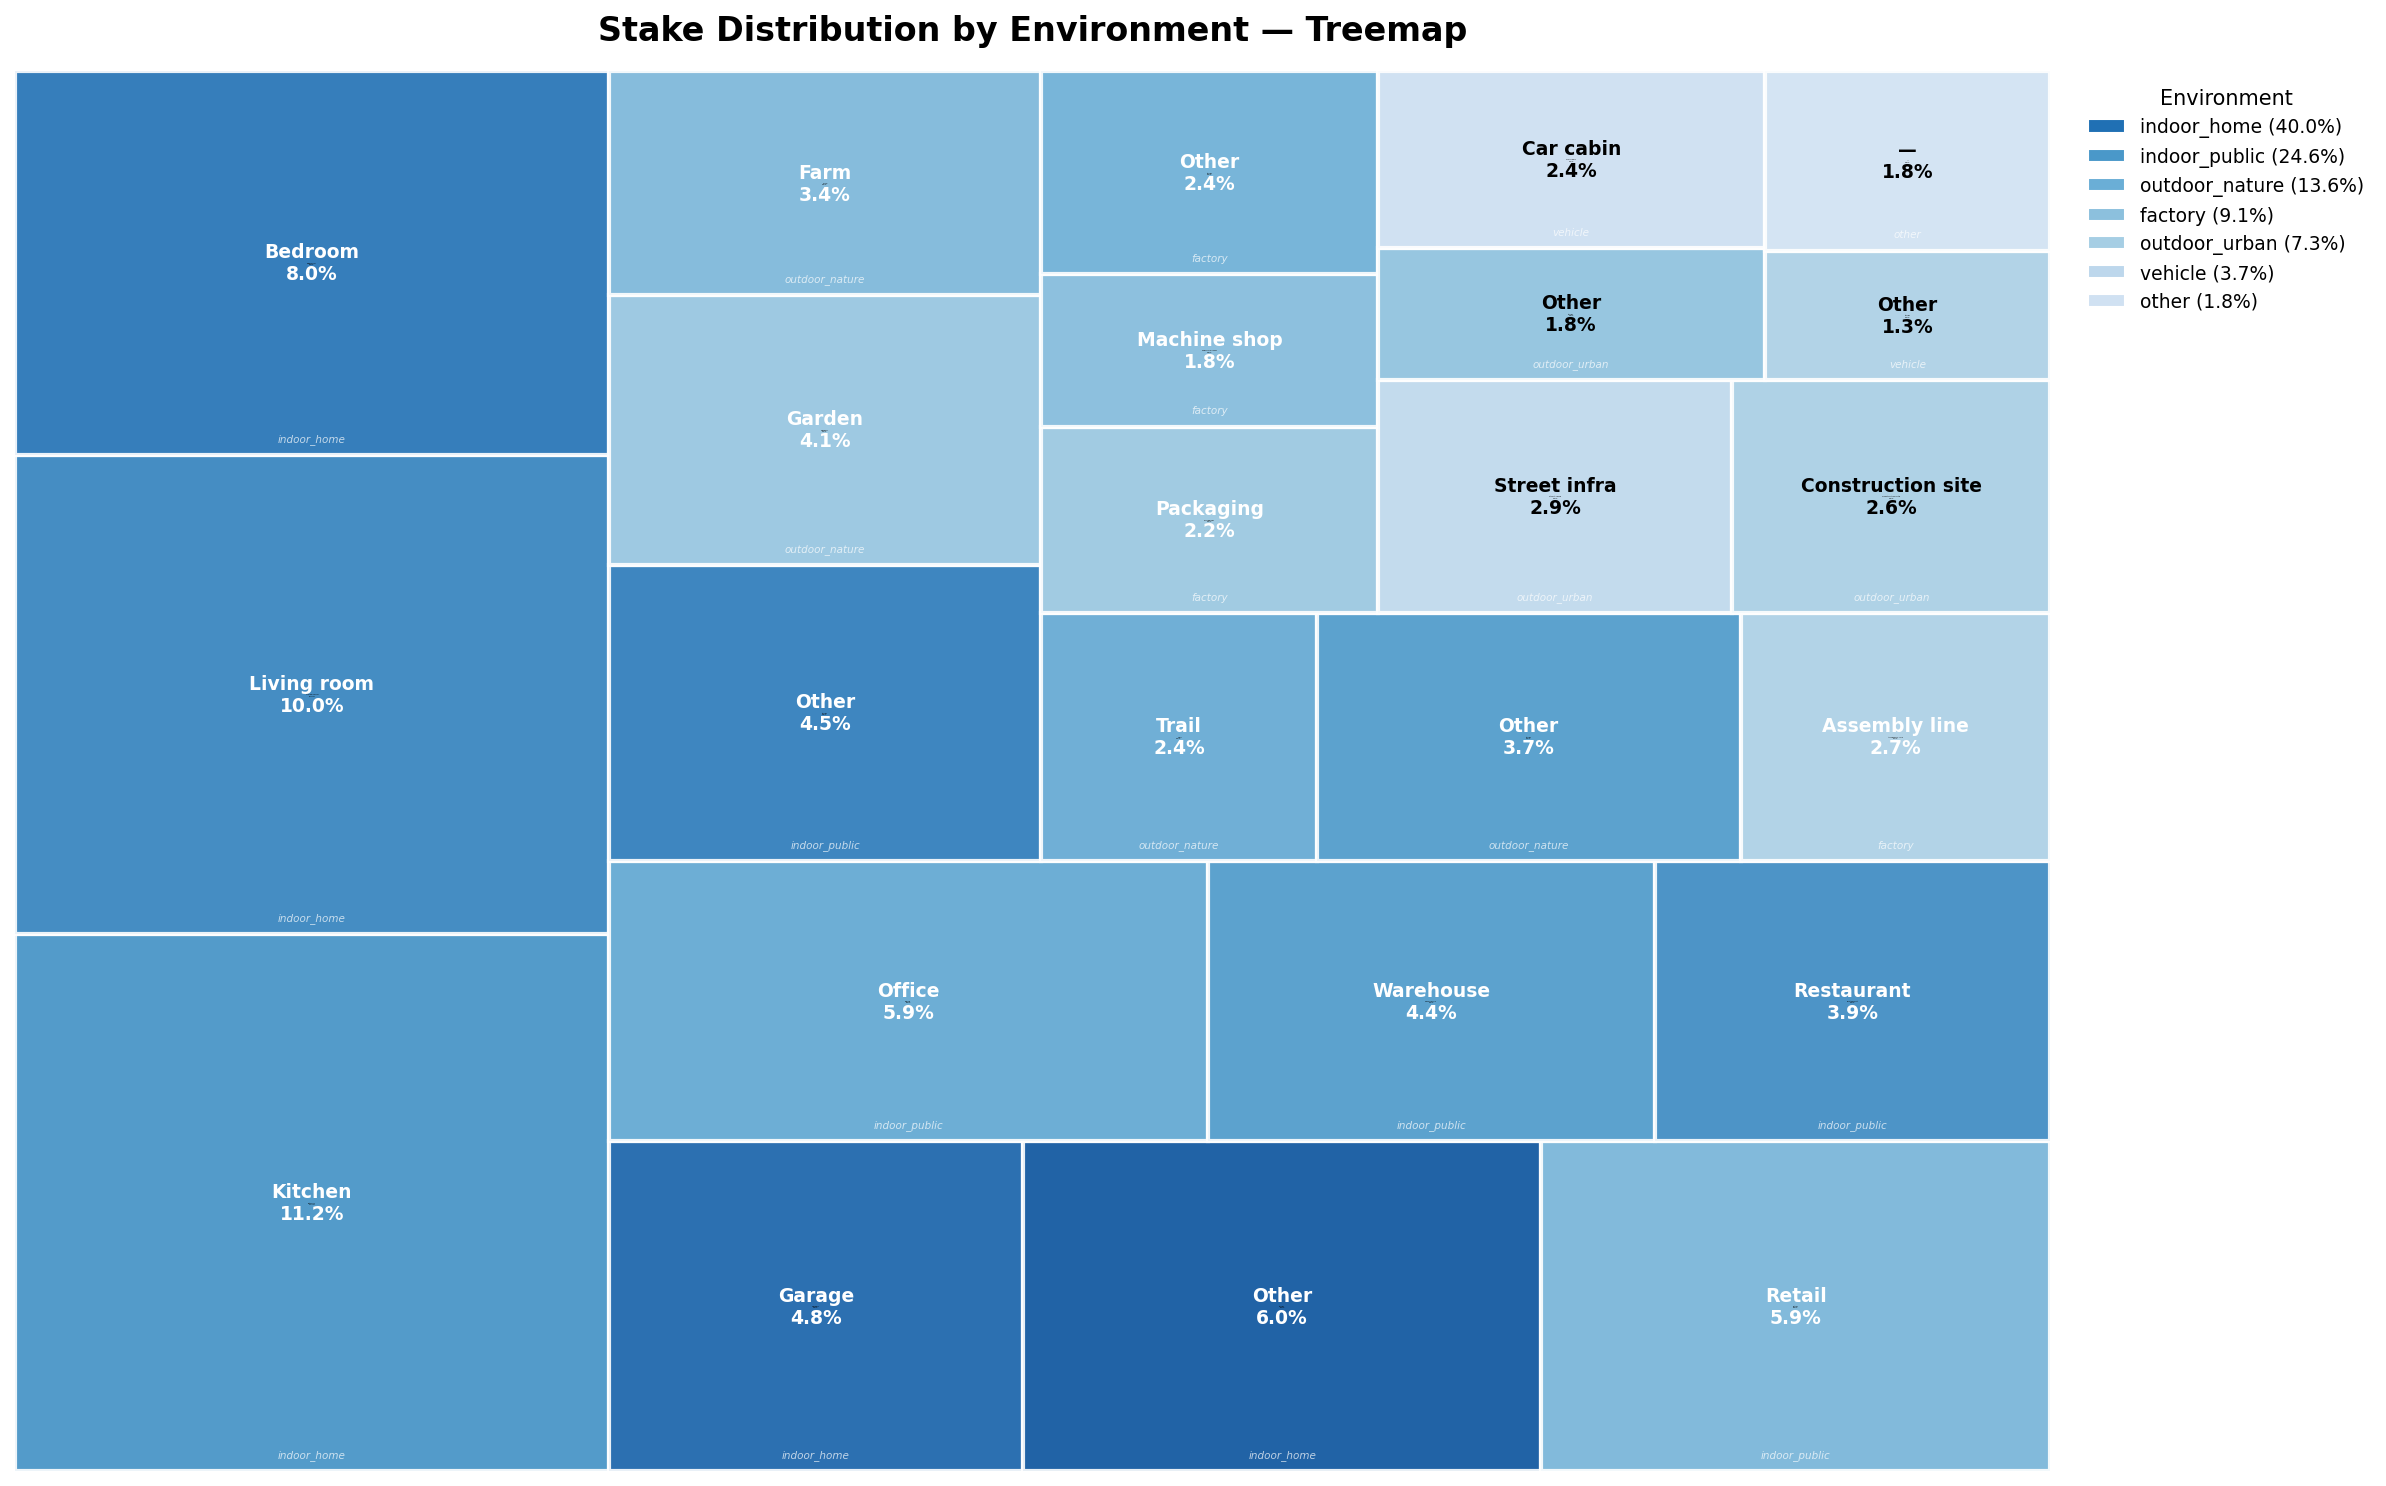
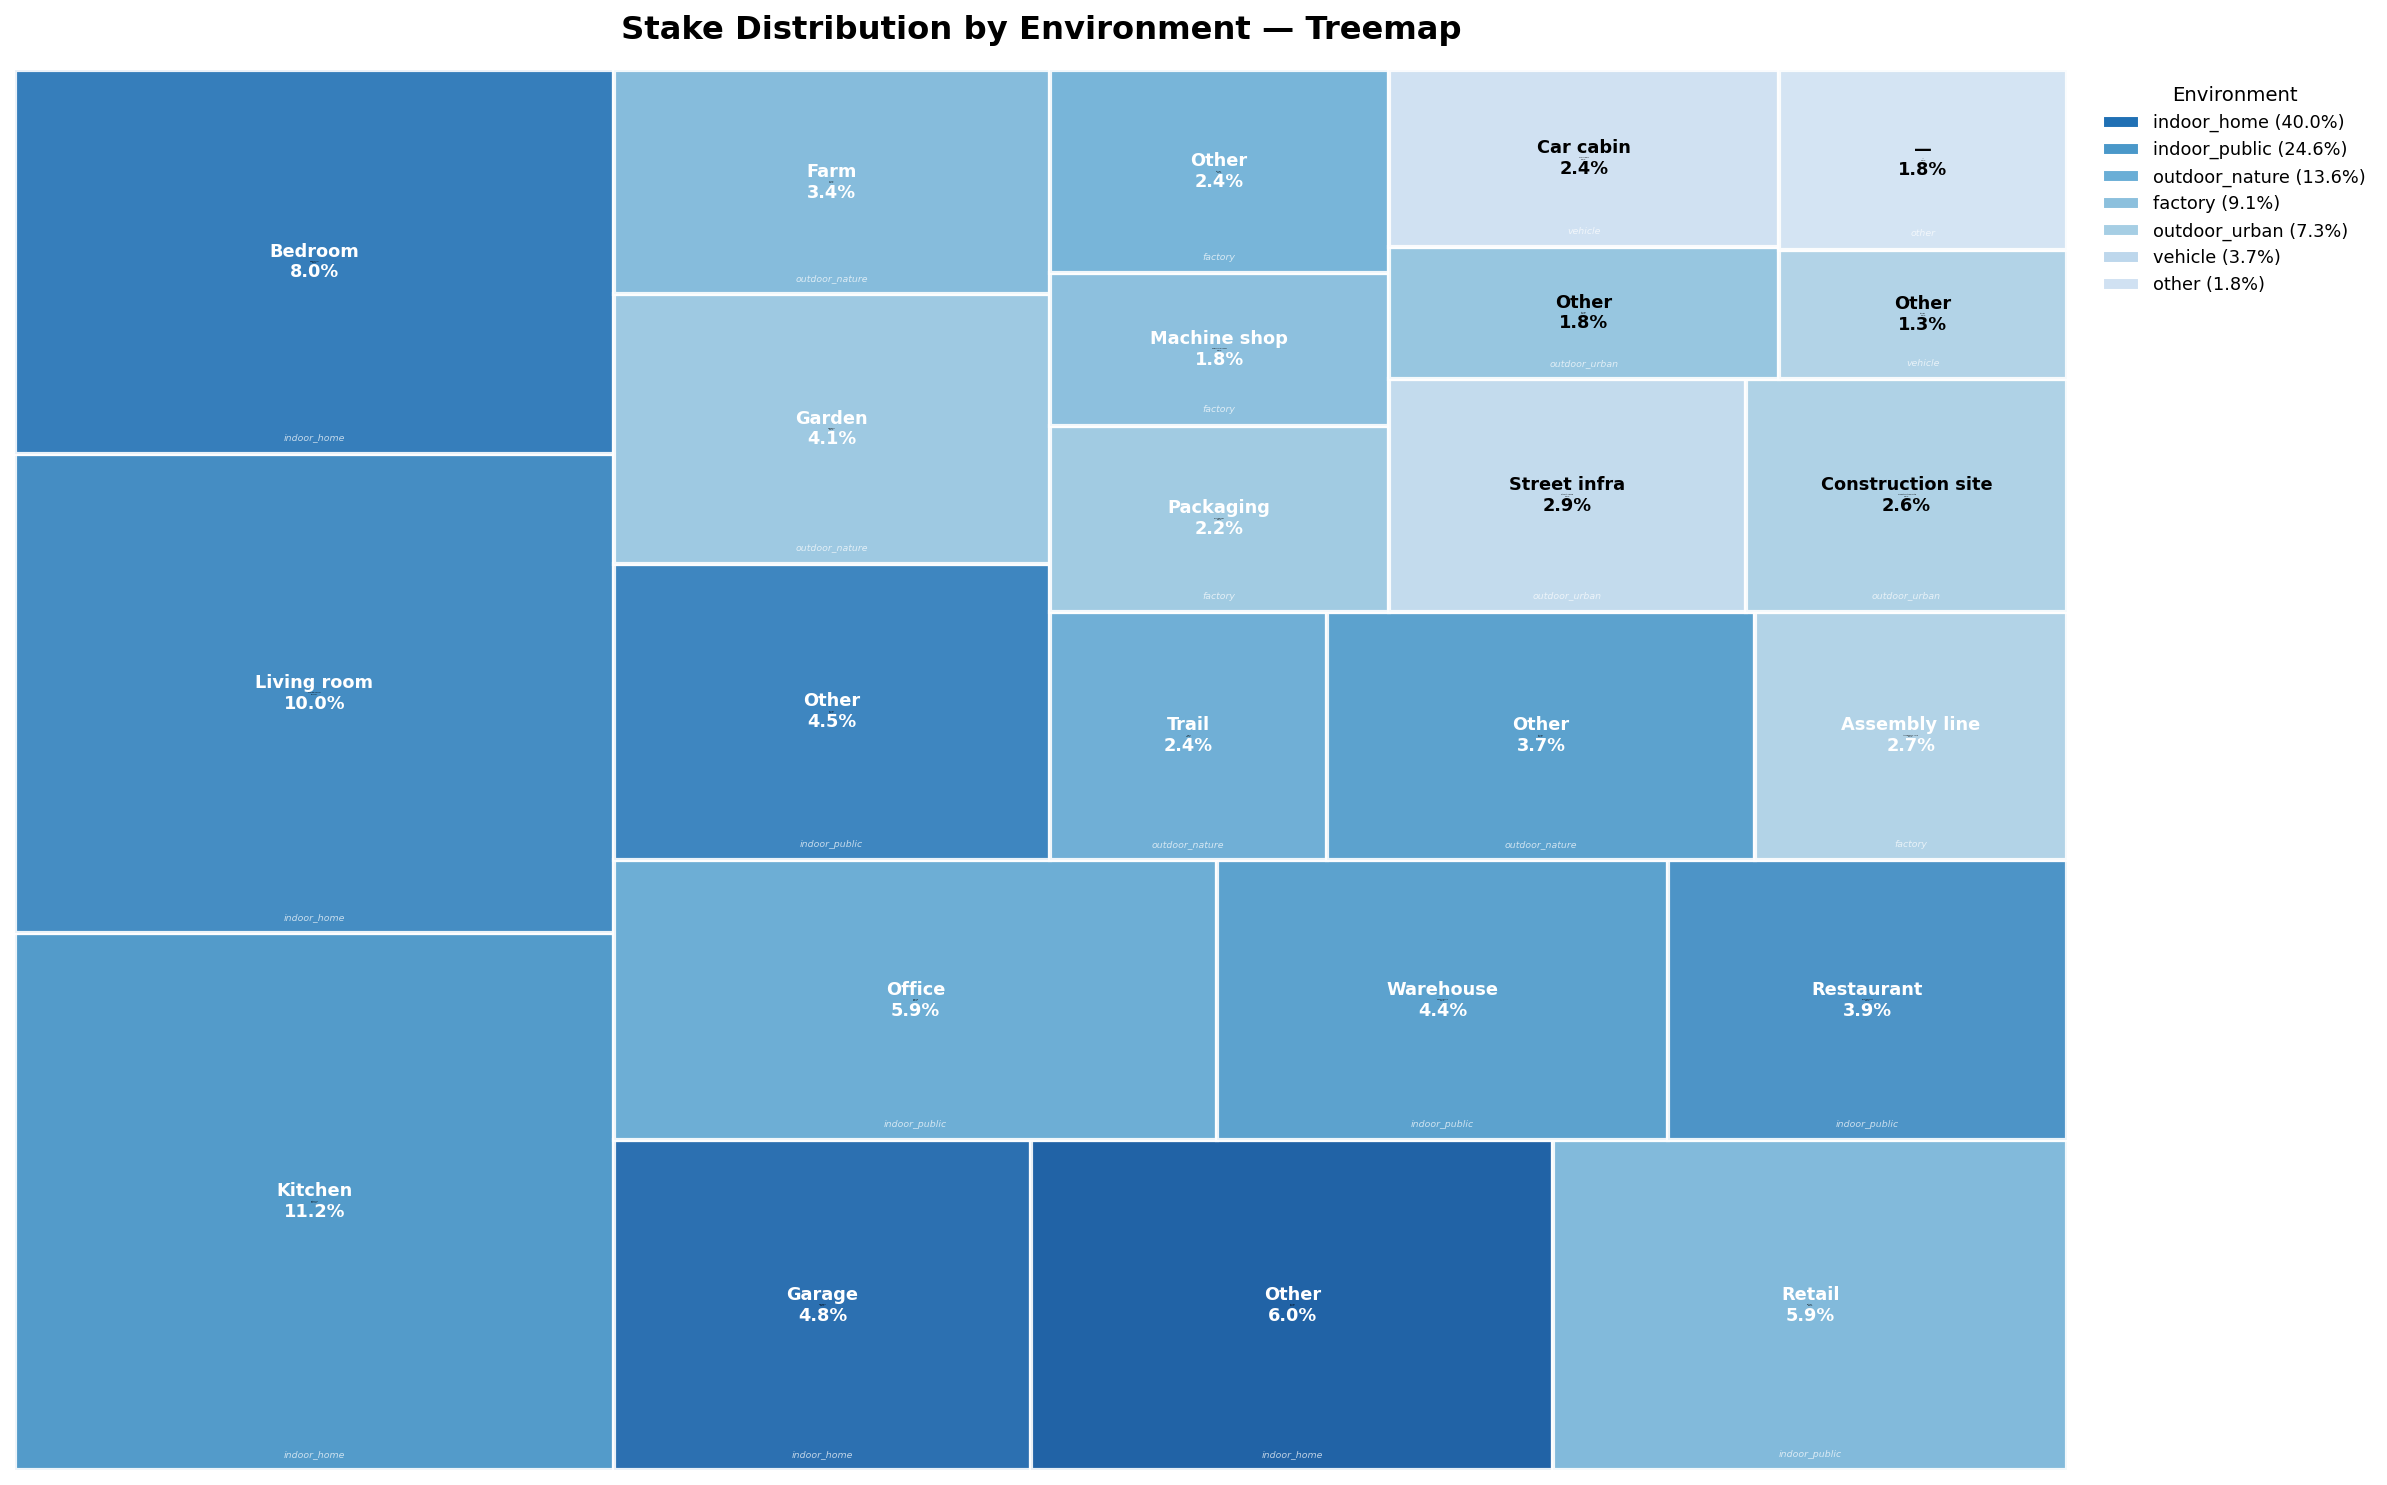
Reduce all font sizes by 0.5 across all visualization scripts
https://claude.ai/code/session_018xFGws4xpUTXJntMBVQsZP

diff --git a/stake_treemap.py b/stake_treemap.py
@@ -107,13 +107,13 @@ for i, r in enumerate(rects_coords):
     area = r["dx"] * r["dy"]
 
     if area > 15:
-        fontsize = 9
+        fontsize = 8.5
     elif area > 8:
-        fontsize = 7.5
+        fontsize = 7
     elif area > 4:
-        fontsize = 6
+        fontsize = 5.5
     else:
-        fontsize = 5
+        fontsize = 4.5
 
     # Use white text on darker blues, black on lighter
     shade_val = blue_centers.get(env_labels[i], 0.5)
@@ -135,7 +135,7 @@ for i, r in enumerate(rects_coords):
         ax.text(
             x, y, env_labels[i],
             ha="center", va="bottom",
-            fontsize=5, fontstyle="italic",
+            fontsize=4.5, fontstyle="italic",
             color="white", alpha=0.7,
         )
 
@@ -150,12 +150,12 @@ legend_patches = [
 ]
 ax.legend(
     handles=legend_patches, loc="upper left", bbox_to_anchor=(1.01, 1),
-    fontsize=9, frameon=False, title="Environment", title_fontsize=10,
+    fontsize=8.5, frameon=False, title="Environment", title_fontsize=9.5,
 )
 
 ax.set_title(
     "Stake Distribution by Environment — Treemap",
-    fontsize=16, fontweight="bold", pad=15,
+    fontsize=15.5, fontweight="bold", pad=15,
 )
 ax.axis("off")
 

diff --git a/stake_histogram.py b/stake_histogram.py
@@ -91,7 +91,7 @@ for i, env in enumerate(env_names):
             label,
             ha="center",
             va="center",
-            fontsize=9,
+            fontsize=8.5,
             fontweight="bold",
             color="black",
             clip_on=True,
@@ -107,16 +107,16 @@ for i, env in enumerate(env_names):
         f"{total:.1f}%",
         ha="center",
         va="bottom",
-        fontsize=12,
+        fontsize=11.5,
         fontweight="bold",
         color="#333333",
     )
 
 ax.set_xticks(x_positions)
-ax.set_xticklabels(env_names, fontsize=12, fontweight="bold")
+ax.set_xticklabels(env_names, fontsize=11.5, fontweight="bold")
 ax.set_ylabel("")
-ax.set_title("Distribution of Environment Types", fontsize=18, fontweight="bold", pad=15)
-ax.tick_params(axis="y", labelsize=11)
+ax.set_title("Distribution of Environment Types", fontsize=17.5, fontweight="bold", pad=15)
+ax.tick_params(axis="y", labelsize=10.5)
 ax.yaxis.set_major_formatter(mticker.PercentFormatter())
 ax.set_ylim(0, 45)
 ax.spines["top"].set_visible(False)

diff --git a/action_primitives_histogram.py b/action_primitives_histogram.py
@@ -98,7 +98,7 @@ for i, cat in enumerate(cat_names):
             label,
             ha="center",
             va="center",
-            fontsize=9,
+            fontsize=8.5,
             fontweight="bold",
             color="black",
             clip_on=True,
@@ -114,21 +114,21 @@ for i, cat in enumerate(cat_names):
         f"{total:.1f}%",
         ha="center",
         va="bottom",
-        fontsize=12,
+        fontsize=11.5,
         fontweight="bold",
         color="#333333",
     )
 
 ax.set_xticks(x_positions)
-ax.set_xticklabels(cat_names, fontsize=11, fontweight="bold")
+ax.set_xticklabels(cat_names, fontsize=10.5, fontweight="bold")
 ax.set_ylabel("")
 ax.set_title(
     "Distribution of Action-Interaction Primitives",
-    fontsize=18,
+    fontsize=17.5,
     fontweight="bold",
     pad=15,
 )
-ax.tick_params(axis="y", labelsize=11)
+ax.tick_params(axis="y", labelsize=10.5)
 ax.yaxis.set_major_formatter(mticker.PercentFormatter())
 ax.set_ylim(0, 35)
 ax.spines["top"].set_visible(False)
